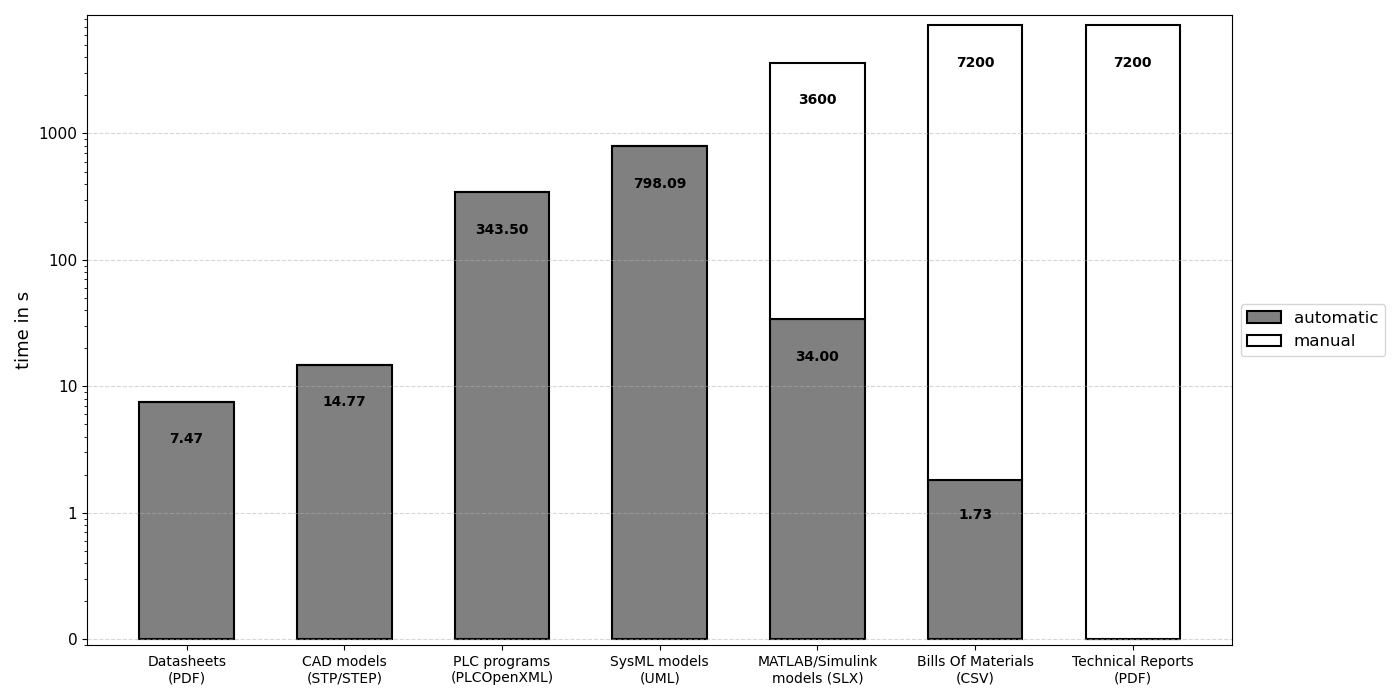
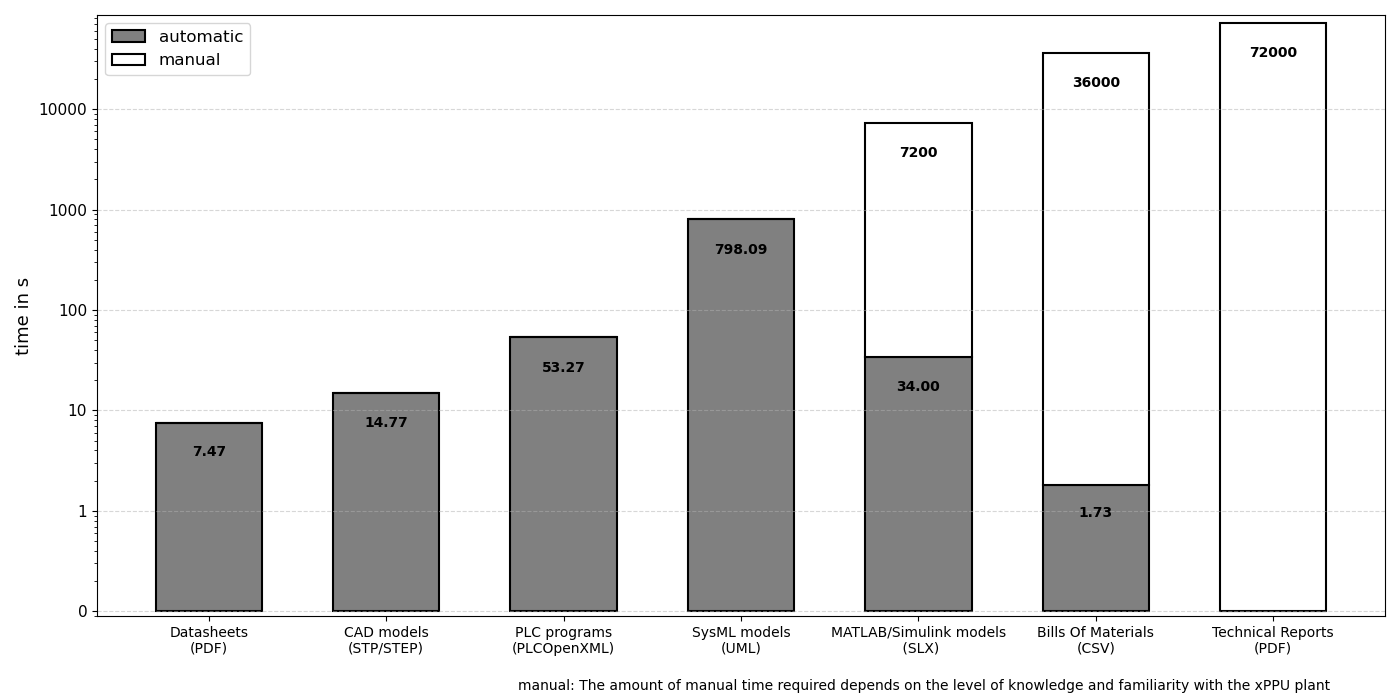
6-30-after-call-jingyun-slx_problem

diff --git a/Different Files Processing Times/plot.py b/Different Files Processing Times/plot.py
@@ -1,9 +1,9 @@
 import matplotlib.pyplot as plt
 import numpy as np
 
-categories = ['Datasheets\n(PDF)', 'CAD models\n(STP/STEP)', 'PLC programs\n(PLCOpenXML)', 'SysML models\n(UML)', 'MATLAB/Simulink\nmodels (SLX)', 'Bills Of Materials\n(CSV)', 'Technical Reports\n(PDF)']
-automatic = [7.47291176470588, 14.77388, 343.495, 798.092, 33.999, 1.725, 0]
-manual_actual = [0, 0, 0, 0, 3600, 7200, 7200]
+categories = ['Datasheets\n(PDF)', 'CAD models\n(STP/STEP)', 'PLC programs\n(PLCOpenXML)', 'SysML models\n(UML)', 'MATLAB/Simulink models\n (SLX)', 'Bills Of Materials\n(CSV)', 'Technical Reports\n(PDF)']
+automatic = [7.47291176470588, 14.77388, 53.273, 798.092, 33.999, 1.725, 0]
+manual_actual = [0, 0, 0, 0, 7200, 36000, 72000]
 manual_display = [man if man > 0 else 0 for man in manual_actual]
 x = np.arange(len(categories))
 width = 0.6
@@ -18,7 +18,7 @@ ax.set_yscale('log')
 max_total = max([base + a + m for a, m in zip(automatic, manual_display)])
 ax.set_ylim(0.09, max_total * 1.2)
 ax.yaxis.set_major_formatter(plt.ScalarFormatter())
-ax.yaxis.set_major_locator(plt.FixedLocator([0.1, 1, 10, 100, 1000, 10000]))
+ax.yaxis.set_major_locator(plt.FixedLocator([0.1, 1, 10, 100, 1000, 10000, 100000]))
 ax.tick_params(axis='both', labelsize=11)
 
 for i, (auto, wh) in enumerate(zip(automatic, manual_display)):
@@ -32,8 +32,13 @@ for i, (auto, wh) in enumerate(zip(automatic, manual_display)):
 ax.set_ylabel('time in s', fontsize=13)
 ax.set_xticks(x)
 ax.set_xticklabels(categories, fontsize=10)
-ax.legend(loc='center left', bbox_to_anchor=(1.0, 0.5), fontsize=12)
-plt.subplots_adjust(right=0.85)
+
+ax.legend(loc='upper left', fontsize=12)
+
+# footnote
+fig.text(0.95, 0.01, 'manual: The amount of manual time required depends on the level of knowledge and familiarity with the xPPU plant', ha='right', va='bottom', fontsize=10)
+
 ax.grid(True, which='major', axis='y', linestyle='--', alpha=0.5)
 plt.tight_layout()
+plt.subplots_adjust(bottom=0.12)
 plt.show()

diff --git a/Different Files Processing Times/others/time_mean_slx_2_aas.py b/Different Files Processing Times/others/time_mean_slx_2_aas.py
@@ -1,0 +1,44 @@
+#!/usr/bin/env python3
+import csv
+import os
+import glob
+
+script_dir = os.path.dirname(os.path.abspath(__file__))
+slx_dir = os.path.join(script_dir, "slx_2_csv")
+aas_dir = os.path.join(script_dir, "csv_2_aas")
+sim_file = os.path.join(aas_dir, "otherSM_processing_times.csv")
+
+
+slx_total = 0.0
+for f in glob.glob(os.path.join(slx_dir, "*.csv")):
+    with open(f, encoding='utf-8') as fp:
+        reader = csv.reader(fp)
+        next(reader)  # 跳过表头
+        for name, t in reader:
+            if name.strip() == "Total":
+                slx_total += float(t)
+                break  # only read the Total entry in each file
+
+# read otherSM_processing_times.csv  simulation time
+sim_time = 0.0
+with open(sim_file, encoding='utf-8') as fp:
+    reader = csv.reader(fp)
+    next(reader)
+    for name, t in reader:
+        if name.strip() == "Simulation":
+            sim_time = float(t)
+            break
+
+total = slx_total + sim_time
+avg = total / 4.0  # 4 simulation models
+
+out_dir = os.path.join(script_dir, "output")
+os.makedirs(out_dir, exist_ok=True)
+out_path = os.path.join(out_dir, "slx_2_aas.csv")
+with open(out_path, "w", newline='', encoding='utf-8') as fp:
+    writer = csv.writer(fp)
+    writer.writerow(["name", "time"])
+    writer.writerow(["Simulation_Total", f"{total:.3f}"])
+    writer.writerow(["Average", f"{avg:.3f}"])
+
+print(f"Done, output: {out_path}")
